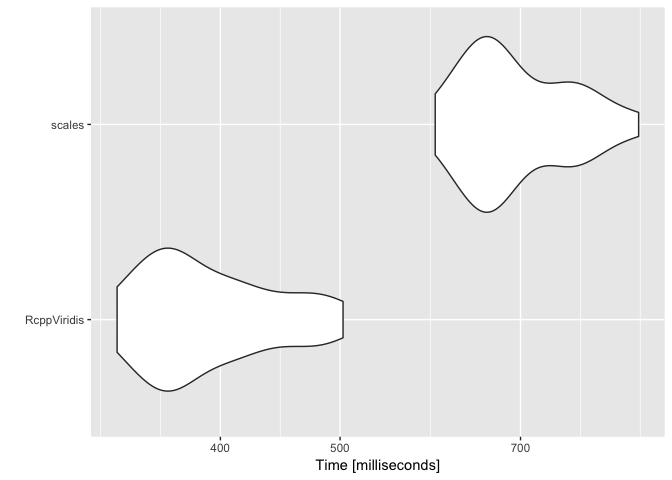
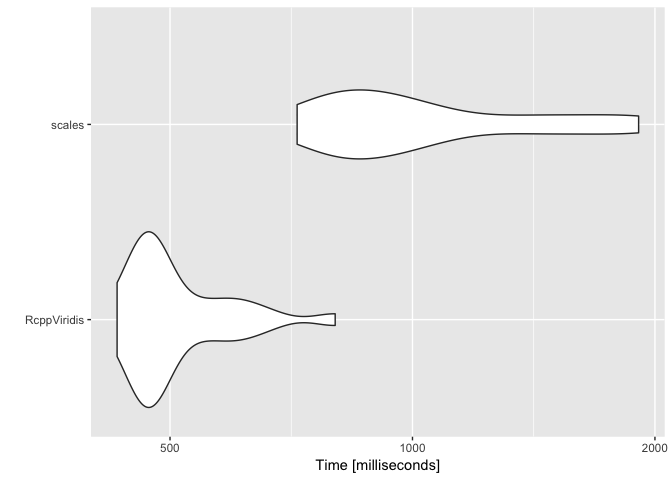
alpha as vector of data

diff --git a/inst/include/RcppViridis/palette_utils/palette_utils.hpp b/inst/include/RcppViridis/palette_utils/palette_utils.hpp
@@ -12,12 +12,13 @@ namespace palette_utils {
 
     int alpha_size = alpha.size();
 
-    if ( !( alpha_size == 1 || alpha_size == x_size) ){
+    if ( !( alpha_size == 1 || alpha_size == x_size ) ){
         Rcpp::stop("alpha must either be a single value, or the same length as x");
       }
     if ( alpha_size > 1 ) {
-      // fill  alpha_full
       alpha_full = alpha;
+      rcppviridis::scale::rescale( alpha_full );
+      alpha = alpha * 255;
     } else {
       alpha_full.fill( alpha[0] );
     }
@@ -32,27 +33,10 @@ namespace palette_utils {
       Rcpp::NumericVector& blue,
       Rcpp::NumericVector& alpha ) {
 
-    //double scale = 1 / 255;
-    // red = red * scale;
-    // blue = blue * scale;
-    // green = green * scale;
-    //alpha = alpha * scale;
-    // TODO(ensure in range [0,1])
-
     // RGB palettes are scaled so they can be interpolated
     rcppviridis::scale::rescale( red );
     rcppviridis::scale::rescale( green );
     rcppviridis::scale::rescale( blue );
-
-    // alpha value remains in [0,255]
-
-    //rcppviridis::scale::rescale( alpha );
-    // alpha doesn't get scaled, just converted to [0,1];
-    //alpha = alpha * scale;
-
-    //red = red * scale;
-    //green = green * scale;
-    //blue = blue * scale;
   }
 
   /*

diff --git a/README.md b/README.md
@@ -167,8 +167,8 @@ barplot(height = df$a, col = df$col, border = NA, space = 0)
 Or use a vector of values the same lenght as `x`
 
 ``` r
-df <- data.frame(a = 10, x = 1:260)
-df$col <- colour_values(df$x, alpha = rep(seq(0,255, by = 5),5))
+df <- data.frame(a = 10, x = 1:256)
+df$col <- colour_values(df$x, alpha = c((1:256)**0.5))
 barplot(height = df$a, col = df$col, border = NA, space = 0)
 ```
 
@@ -211,8 +211,8 @@ m <- microbenchmark(
 m
 # Unit: milliseconds
 #         expr      min       lq     mean   median       uq      max neval
-#  RcppViridis 306.9752 339.8894 364.0389 351.3423 368.0906 501.4680    25
-#       scales 615.1994 645.2490 697.7371 674.0110 740.0254 940.5946    25
+#  RcppViridis 406.8706 422.6514 454.0056 433.7392 446.1882  604.443    25
+#       scales 767.7528 824.2866 917.8761 889.4885 988.8309 1221.415    25
 
 autoplot(m)
 ```
@@ -238,9 +238,12 @@ m <- microbenchmark(
 )
 m
 # Unit: milliseconds
-#         expr      min       lq     mean   median       uq      max neval
-#  RcppViridis 329.9285 358.5274 394.1665 374.7618 413.5953 502.7821    25
-#       scales 597.0547 649.1323 697.4380 668.2701 758.8406 872.4136    25
+#         expr      min       lq      mean   median        uq       max
+#  RcppViridis 429.7970 467.2075  514.0311 476.4281  549.1728  801.7443
+#       scales 719.0951 814.1562 1074.7713 949.0937 1171.0605 1908.8176
+#  neval
+#     25
+#     25
 
 autoplot(m)
 ```
